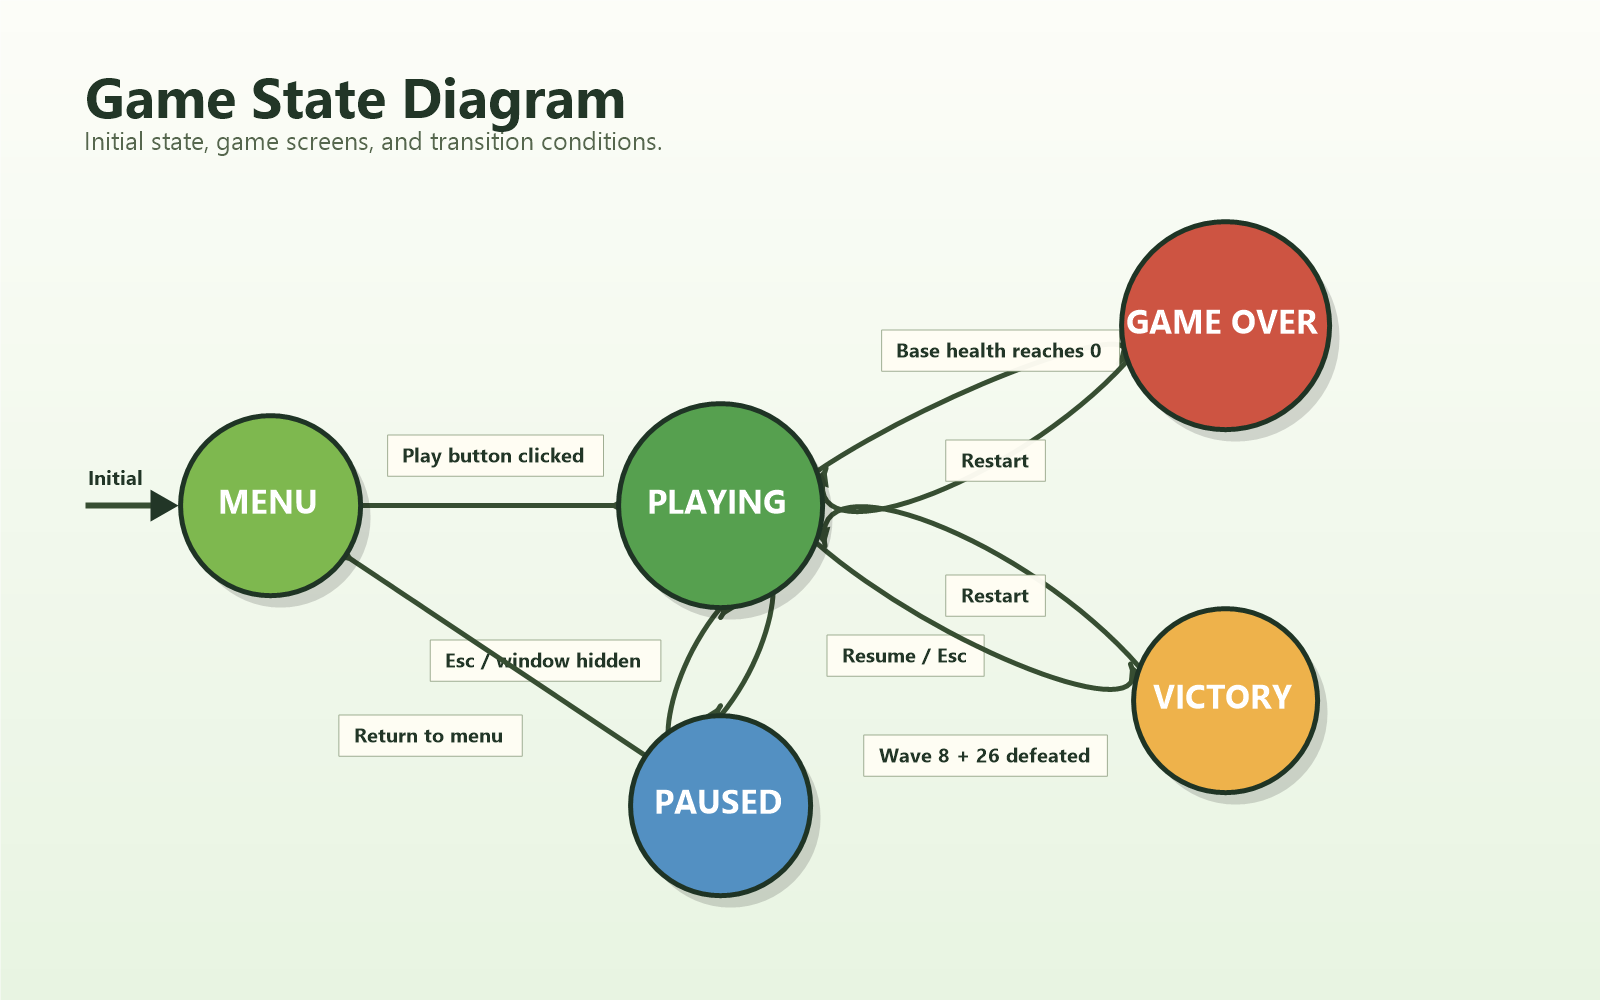
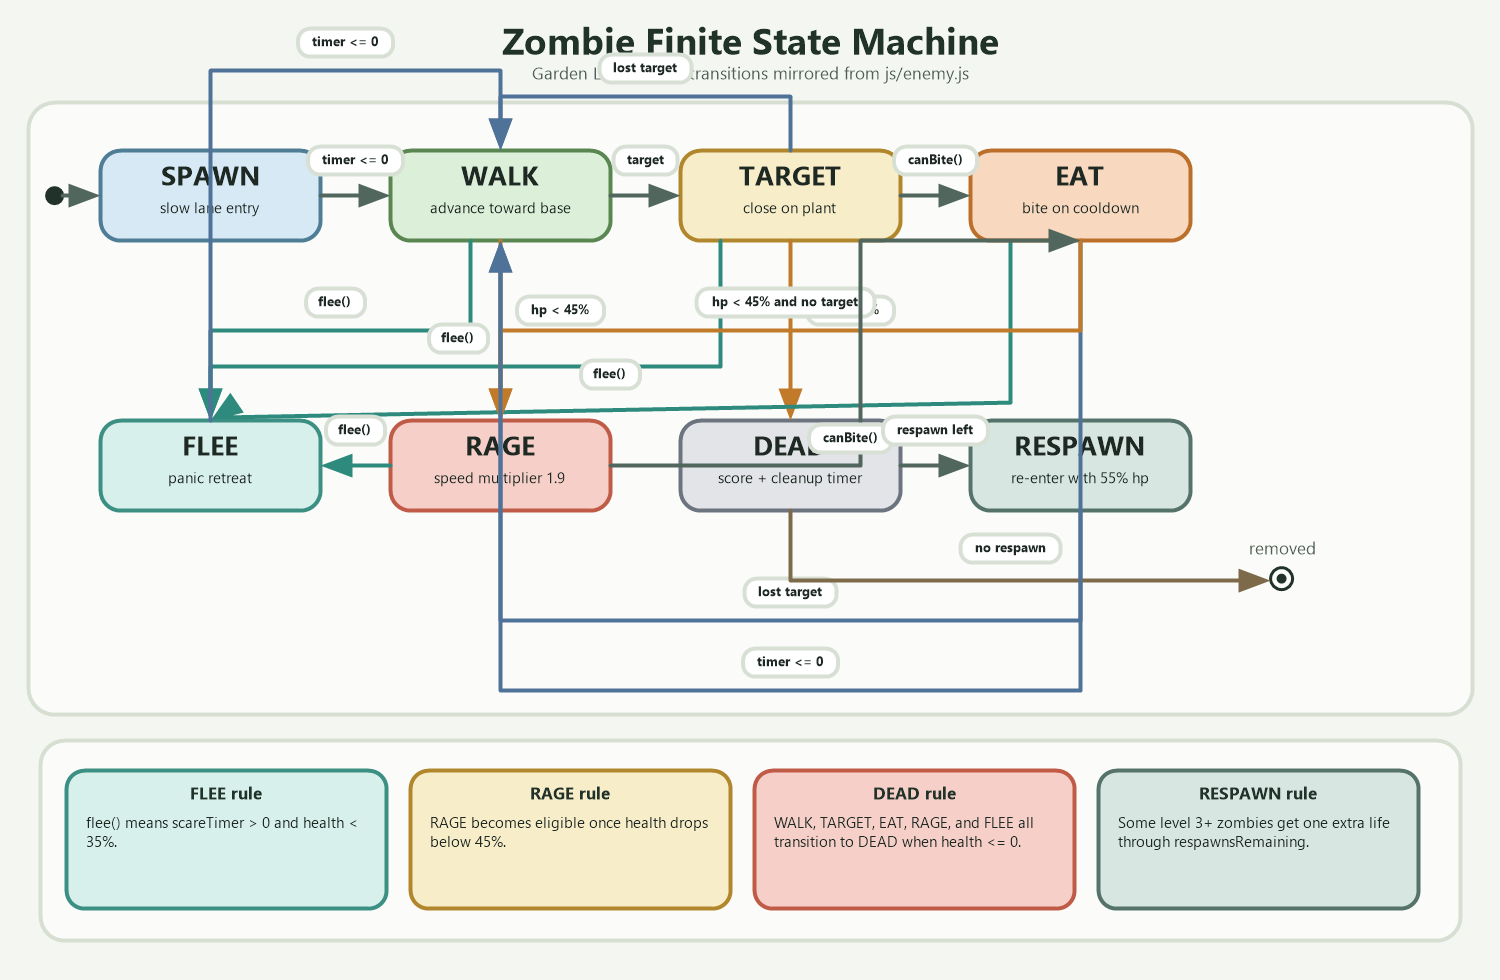
Remove state diagram from README; update PNG
Remove the 'Enemy State Diagram' section and embedded image from README.md to declutter the README. Update the binary image file docs/state-diagram.png (modified), preserving the diagram in the docs directory.

diff --git a/README.md b/README.md
@@ -65,9 +65,3 @@ Sun is collected automatically when your cursor moves close to it.
 - [js/fsm.js](/C:/Users/User/Documents/GitHub/browser-game/js/fsm.js): reusable finite state machine implementation
 - `assets/`: plant, zombie, and audio assets
 - `docs/`: supporting documentation
-
-## Enemy State Diagram
-
-The zombie behavior is organized with a finite state machine.
-
-![Game state diagram](docs/state-diagram.png)